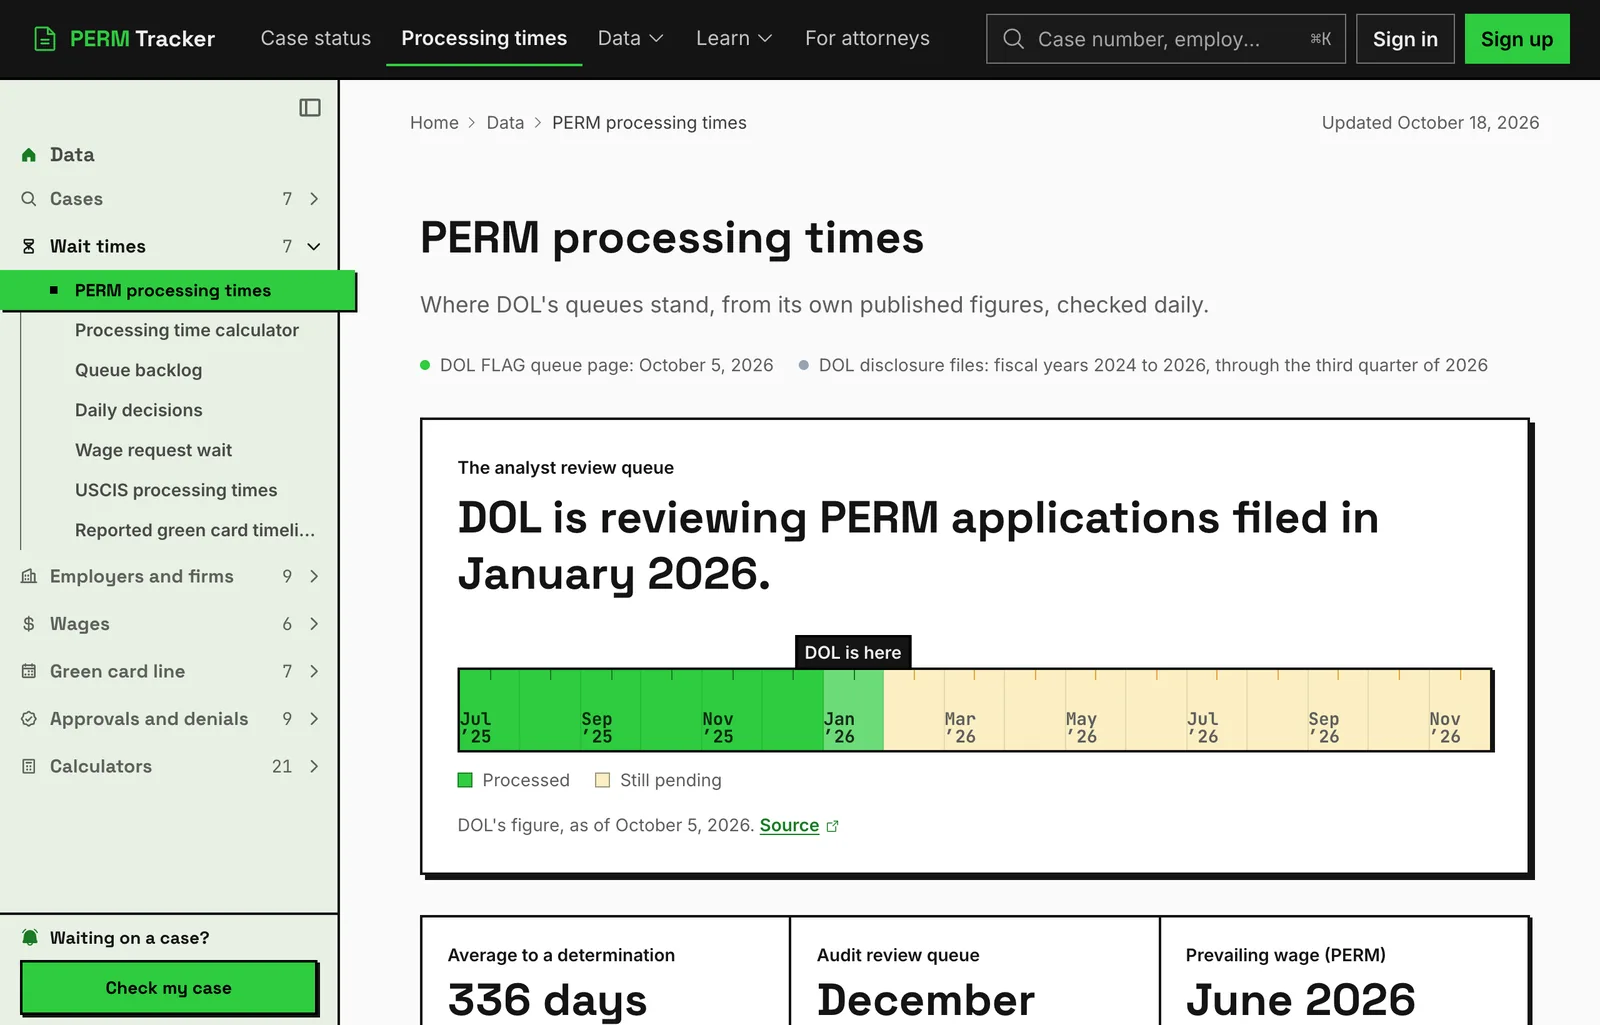
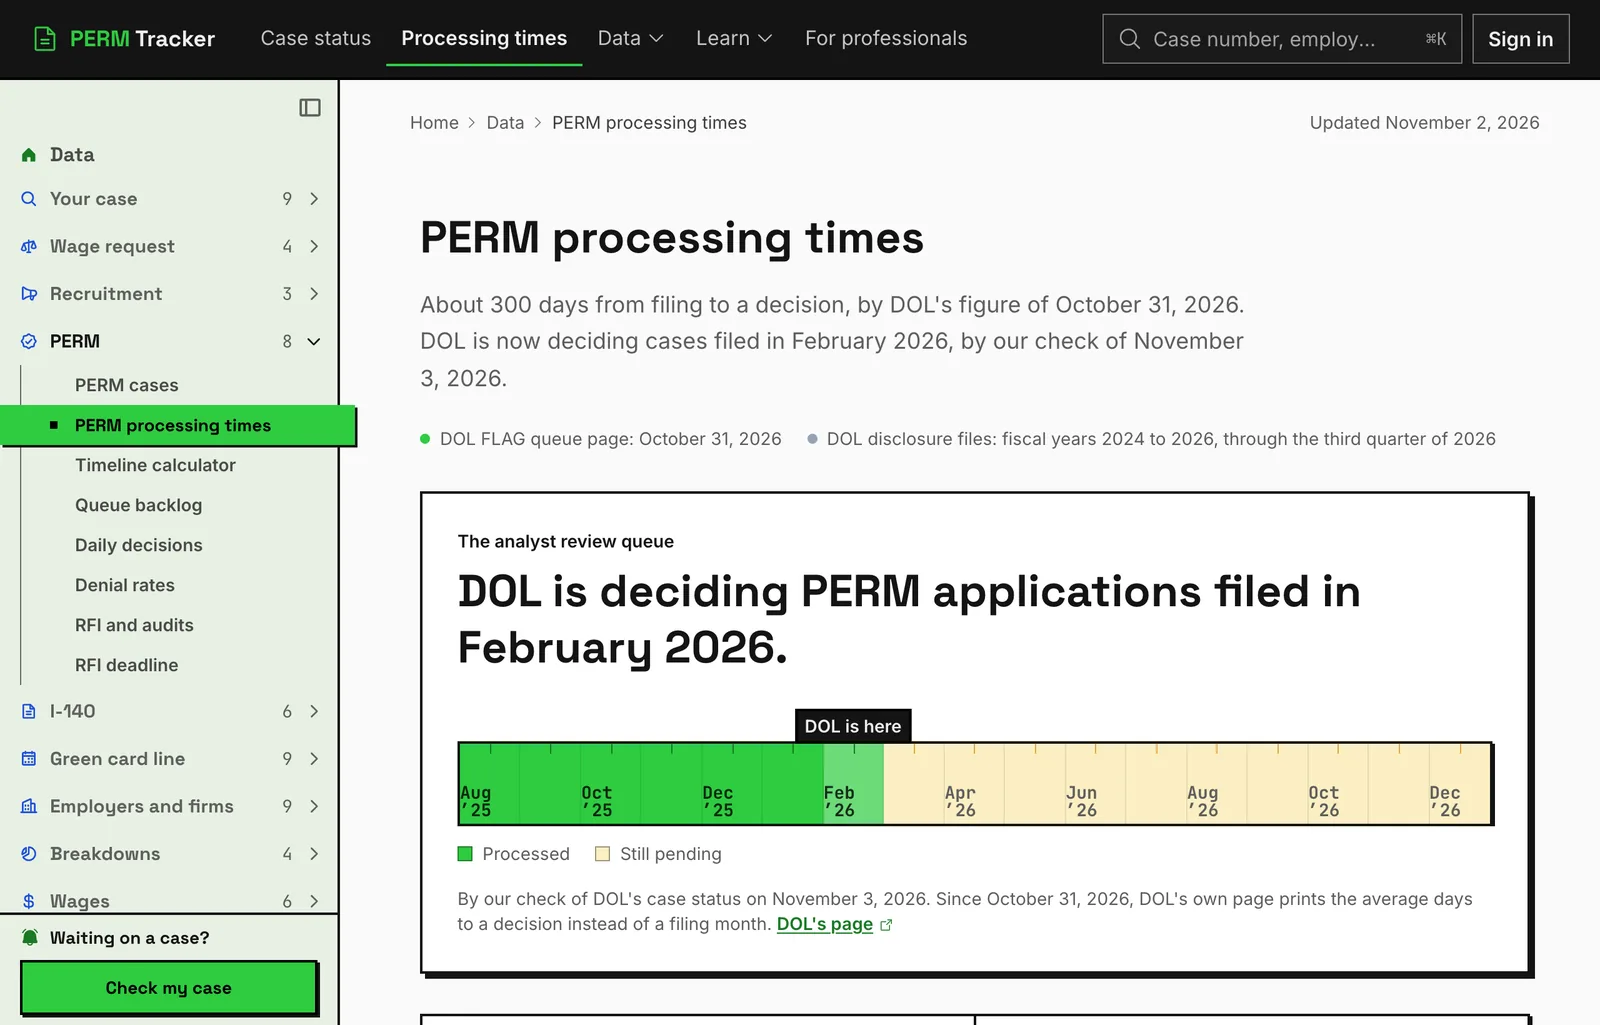
fix(copy): no page says DOL still prints its PERM month
DOL's processing times page stopped printing a PERM filing month on Oct 31
2026: its table is now the average days to a decision over the last 30, 90
and 180 days, with no audit row. The queue page's note, the glossary, the RFI
stage glossary, the processing-times and timeline-calculator FAQs, the badge
and embed descriptions, llms.txt and twelve guides and posts still said DOL
publishes the month its analysts and its audit queue have reached, and one
guide's sentence ended with nothing where the audit month had been.

Each now says what DOL prints today and that the month comes from the site's
daily check of DOL's case statuses. The queue guide shows DOL's page before
and after (a new capture of the Oct 31 table), the processing-times post's
page shot is retaken, and the corrections log has an entry.

dol-prints-no-perm-month.test.ts fails any page, guide, post or shared string
that says DOL still prints the month, leaving wage-request sentences (that
table still prints months) and dated history alone; probed red with two old
sentences put back.

Claude-Session: https://claude.ai/code/session_01XYgdcpR3a27fwYMdTXZtsH

diff --git a/v2/src/app/__tests__/dol-prints-no-perm-month.test.ts b/v2/src/app/__tests__/dol-prints-no-perm-month.test.ts
@@ -1,0 +1,95 @@
+import { readdirSync, readFileSync, statSync } from "node:fs";
+import { join } from "node:path";
+import { describe, expect, it } from "vitest";
+
+/**
+ * DOL's processing times page stopped printing a PERM filing month on Oct 31 2026: its PERM table is now the
+ * average days to a decision over the last 30, 90 and 180 days, with no audit row. Fifteen places kept saying
+ * DOL publishes the month its analysts (or its audit queue) have reached, and one guide's sentence ended with
+ * nothing where the audit month had been. The month DOL is working comes from this site's daily check now
+ * (convex/lib/permLine.ts).
+ *
+ * The wage-request table still prints its months, so a sentence about wage requests is left alone. A sentence
+ * that says when DOL stopped ("until October 31", "no longer", "stopped") is history and passes.
+ */
+const CLAIMS = [
+  /\bDOL publishes (?:which|the) (?:filing )?month\b/i,
+  /\bDOL publishes (?:its|where)\b[^.]{0,40}\b(?:position|queue stands|month)\b/i,
+  /\bpublished (?:frontier|position)\b/i,
+  // the audit QUEUE's place, never the audit rate (which DOL has never published, and pages say so)
+  /\baudit (?:review )?(?:queue|position|backlog)\b[^.]{0,80}\b(?:DOL publishes|published|DOL's table names)\b/i,
+  /\bDOL publishes (?:a|an|its)\b[^.]{0,30}\baudit review\b/i,
+  /\bmonth DOL says its analyst\b/i,
+  // "a separate queue that DOL publishes its own date for", "their own queue, which DOL publishes separately"
+  /\bqueue\b[^.]{0,40}\b(?:which|that) DOL publishes\b/i,
+  /\bmonth DOL (?:says|publishes)\b/i,
+];
+
+// A wage request's month is still printed; a dated sentence is history.
+const ABOUT_WAGES = /\b(?:wage|prevailing|PWD|9141|NPWC|the center)\b/i;
+const HISTORY = /\b(?:until October 31|since October 31|October 31, 2026|no longer|stopped|used to|printed|was working)\b/i;
+
+// Rendered only while DOL's own stored reading carries a month (`from !== "check"`), so true whenever they show.
+const WHILE_DOL_PRINTS = [
+  "month DOL publishes as its analyst-review", // perm-queue/page.tsx, behind `agrees`
+  "DOL publishes its own analyst-review position as", // CaseWall, behind `publishedFront`
+];
+
+// Wage-request pages, where "the month it's working" is the wage table's, which DOL still prints.
+const WAGE_PAGES = new Set(["content/guides/track-a-prevailing-wage-request.mdx"]);
+
+function walk(dir: string, out: string[] = []): string[] {
+  for (const e of readdirSync(dir)) {
+    const p = join(dir, e);
+    if (e === "node_modules" || e === "__tests__" || e === "changelog") continue;
+    if (statSync(p).isDirectory()) walk(p, out);
+    else if (/\.(mdx|tsx|ts)$/.test(e) && !/\.(test|stories)\.tsx?$/.test(e)) out.push(p);
+  }
+  return out;
+}
+
+/** Comments say what code does with DOL's stored month; only what a reader sees is judged. */
+function readerText(path: string, src: string): string {
+  if (path.endsWith(".mdx")) return src.replace(/\{\/\*[\s\S]*?\*\/\}/g, "");
+  return src.replace(/\/\*[\s\S]*?\*\//g, "").replace(/(^|[^:"'`])\/\/.*$/gm, "$1");
+}
+
+export function staleMonthClaims(text: string): string[] {
+  const sentences = text.replace(/&rsquo;|’/g, "'").replace(/&apos;/g, "'").split(/(?<=[.!?])\s+|\n\s*\n/);
+  return sentences.filter(
+    (s) =>
+      CLAIMS.some((re) => re.test(s)) &&
+      !ABOUT_WAGES.test(s) &&
+      !HISTORY.test(s) &&
+      !WHILE_DOL_PRINTS.some((p) => s.includes(p)),
+  );
+}
+
+describe("no page says DOL still prints its PERM month", () => {
+  it("finds the claim when it's there (control)", () => {
+    expect(staleMonthClaims("DOL publishes which month it's working and nothing about the size of what's behind it.")).toHaveLength(1);
+    expect(staleMonthClaims("Audited cases sit in a separate queue that DOL publishes its own date for.")).toHaveLength(1);
+    expect(staleMonthClaims("Audited cases wait in their own queue, which DOL publishes separately.")).toHaveLength(1);
+    expect(staleMonthClaims("The estimate is anchored to DOL's published position.")).toHaveLength(1);
+    expect(staleMonthClaims("DOL publishes an Audit Review queue position alongside its analyst review position.")).toHaveLength(1);
+    expect(staleMonthClaims("It opens with the filing month DOL says its analyst review is working.")).toHaveLength(1);
+  });
+
+  it("passes the audit RATE, which DOL has never published", () => {
+    expect(staleMonthClaims("An audit rate is not published anywhere we can source.")).toHaveLength(0);
+    expect(staleMonthClaims("DOL publishes no PERM audit rate.")).toHaveLength(0);
+  });
+
+  it("passes a wage-request sentence and a dated one", () => {
+    expect(staleMonthClaims("DOL publishes the filing month it is currently working for wage requests.")).toHaveLength(0);
+    expect(staleMonthClaims("Until October 31, 2026, DOL published the filing month its analysts had reached.")).toHaveLength(0);
+    expect(staleMonthClaims("DOL stopped printing which filing month its analysts have reached.")).toHaveLength(0);
+  });
+
+  it("holds for every page, guide, post and shared string", () => {
+    const files = [...walk("src"), ...walk("content")].filter((f) => !WAGE_PAGES.has(f));
+    expect(files.length).toBeGreaterThan(400);
+    const found = files.flatMap((f) => staleMonthClaims(readerText(f, readFileSync(f, "utf8"))).map((s) => `${f}: ${s.trim().slice(0, 160)}`));
+    expect(found).toEqual([]);
+  });
+});

diff --git a/v2/src/app/(site)/(public)/tools/perm-timeline-calculator/page.tsx b/v2/src/app/(site)/(public)/tools/perm-timeline-calculator/page.tsx
@@ -75,7 +75,7 @@ const FAQS = [
   },
   {
     q: "My filing month has already passed and I have no decision. What does that mean?",
-    a: "It usually means the case is in audit, in supervised recruitment, or waiting on a response to a request for information. Those run on their own queues, which DOL publishes separately from analyst review. You do not have to guess which one: put the case number into the case status page and DOL's own status for it says which. If we do not already hold the number, we ask DOL for it right then.",
+    a: "It usually means the case is in audit, in supervised recruitment, or waiting on a response to a request for information. Those run on their own queues, apart from analyst review. You don't have to guess which one: put the case number into the case status page and DOL's own status for it says which. If we don't already hold the number, we ask DOL for it right then.",
   },
 ];
 
@@ -201,7 +201,7 @@ export default async function PermTimelineCalculatorPage() {
       <ToolPageFooter
         currentHref={"/tools/perm-timeline-calculator"}
         reading={[
-          { href: "/perm-processing-times", label: "DOL processing times", note: "Every queue DOL publishes, refreshed weekly, with the figures this calculator reads." },
+          { href: "/perm-processing-times", label: "DOL processing times", note: "DOL's own figures, read hourly on weekdays, with the ones this calculator reads." },
           { href: "/blog/perm-processing-times-2026", label: "What drives a PERM timeline", note: "Audits, supervised recruitment and the things that take a case out of order." },
         ]}
       />

diff --git a/v2/src/app/(site)/(public)/perm-processing-times/page.tsx b/v2/src/app/(site)/(public)/perm-processing-times/page.tsx
@@ -130,7 +130,7 @@ const FAQ = [
   {
     question: "Can PERM be processed faster than the published average?",
     answer:
-      "There’s no premium processing for PERM. An individual case can take longer if DOL issues a request for information (RFI) or selects it for audit. Audited cases sit in a separate queue that DOL publishes its own date for.",
+      "There’s no premium processing for PERM. An individual case can take longer if DOL issues a request for information (RFI) or selects it for audit. Audited cases sit in a separate, slower queue, and DOL hasn’t printed where it stands since October 31, 2026.",
   },
   {
     question: "Where do these numbers come from?",
@@ -540,7 +540,7 @@ export default async function PermProcessingTimesPage() {
             <Chapter
               id="pace"
               title="How fast it advances"
-              dek="DOL publishes where the queue stands and overwrites it, so its own pages can never say how fast it is moving."
+              dek="DOL printed where the queue stood and overwrote it each time, so its own pages never said how fast it moved. It stopped printing a month on October 31, 2026."
             >
               {/* Method, not correction: it says how the series was built
                   rather than changing how the rate reads, so it collapses.

diff --git a/v2/src/lib/embeds.ts b/v2/src/lib/embeds.ts
@@ -51,7 +51,7 @@ export const EMBEDS: readonly EmbedDef[] = [
   { slug: "salary-explorer", title: "PERM salaries", blurb: "Offered wages on certified PERM cases, by occupation, state and year.", href: "/tools/salary-explorer", height: 900, group: "calculator" },
   { slug: "compare-offer", title: "Compare my offer", blurb: "A salary offer against H-1B LCA wages for the same job and state.", href: "/tools/compare-my-offer", height: 760, group: "calculator" },
   { slug: "i140-trends", title: "I-140 trends", blurb: "USCIS I-140 receipts, approvals and pending by quarter.", href: "/tools/i140-trends", height: 760, group: "chart" },
-  { slug: "perm-queue", title: "The PERM queue by filing month", blurb: "Every filing month's undecided cases, and the month DOL says it is working.", href: "/perm-queue", height: 900, group: "chart" },
+  { slug: "perm-queue", title: "The PERM queue by filing month", blurb: "Every filing month's undecided cases, and the month DOL is working by our daily check.", href: "/perm-queue", height: 900, group: "chart" },
   { slug: "visa-bulletin", title: "Visa bulletin cutoffs", blurb: "Final action and filing dates by category and country, with the month's movement.", href: "/visa-bulletin", height: 820, group: "chart" },
 ];
 

diff --git a/v2/src/components/content/DolNow.tsx b/v2/src/components/content/DolNow.tsx
@@ -29,6 +29,8 @@ import { longDate, monthDay } from "@convex/lib/months";
  */
 /** A month DOL's table couldn't give today: where it is instead. */
 const NOT_READ = "on the processing times page";
+// DOL's page has printed no audit row since Oct 31 2026; a sentence that names the month still reads whole.
+const AUDIT_NOT_PRINTED = "no month (DOL stopped printing one on October 31, 2026)";
 
 export async function DolNow({
   show = "queue",
@@ -41,7 +43,7 @@ export async function DolNow({
   const permLine = show === "queue" || show === "month" ? await getPermLine().catch(() => null) : null;
   if (show === "queue") return <span>{queueSentence(dolNow(t, permLine))}</span>;
   if (show === "month") return <span>{dolNow(t, permLine).frontier ?? NOT_READ}</span>;
-  if (show === "auditMonth") return <span>{dolNow(t).auditFrontier ?? NOT_READ}</span>;
+  if (show === "auditMonth") return <span>{dolNow(t).auditFrontier ?? AUDIT_NOT_PRINTED}</span>;
   const pwd = dolPwdNow(t);
   if (show === "pwdOtherMonth") return <span>{pwd.otherFrontier ?? NOT_READ}</span>;
   const line = await getPwdLine();

diff --git a/v2/src/lib/badge.ts b/v2/src/lib/badge.ts
@@ -208,10 +208,10 @@ export const BADGE_DEFS: readonly BadgeDef[] = [
     },
   },
   queueMonth("PERM audits", "perm-audits", "/perm-rfi-audit",
-    "The filing month DOL is working in audit review, for cases audited rather than decided straight through.",
+    "The filing month DOL is working in audit review, for audited cases. DOL stopped printing it on October 31, 2026, so this badge shows no figure until DOL prints one again.",
     (d) => d.permQueueMonths.audit, "PERM audit review"),
   queueMonth("PERM recon", "perm-recon", "/perm-rfi-audit",
-    "The month DOL is working for reconsideration requests, filed after a denial.",
+    "The month DOL is working for reconsideration requests, filed after a denial. DOL stopped printing it on October 31, 2026, so this badge shows no figure until DOL prints one again.",
     (d) => d.permQueueMonths.recon, "PERM reconsideration requests"),
   {
     id: "perm-days", group: "DOL queues", label: "PERM decision", href: "/perm-processing-times",

diff --git a/v2/src/app/(site)/(public)/perm-queue/page.tsx b/v2/src/app/(site)/(public)/perm-queue/page.tsx
@@ -211,9 +211,11 @@ export default async function PermQueuePage() {
           <div className="mt-2 grid grid-cols-1 gap-3 lg:grid-cols-2 lg:gap-6 [&>*]:min-w-0">
             <NoteBanner>
               <p>
-                DOL publishes which month it&rsquo;s working and nothing about the
-                size of what&rsquo;s behind it. Its disclosure files carry no pending
-                rows, so the backlog cannot be derived from them.
+                DOL has never published how many cases wait in its line, and since
+                October 31, 2026 it doesn&rsquo;t print which month it&rsquo;s working
+                either. Its disclosure files carry no pending rows, so the backlog
+                can&rsquo;t be derived from them. PERM Tracker counts it from DOL&rsquo;s
+                own case statuses, case by case.
               </p>
             </NoteBanner>{" "}
             <SourceNote />

diff --git a/v2/src/components/rfi/StageGlossary.tsx b/v2/src/components/rfi/StageGlossary.tsx
@@ -210,7 +210,7 @@ export const ENTRIES: Entry[] = [
     what:
       "The ordinary queue. The case is in line for a human analyst and nothing has been asked of the employer.",
     unsourced:
-      "A workflow status rather than a regulatory term. This is where the overwhelming majority of pending cases sit, and DOL publishes which filing month its analysts have reached. There is a second status, IN PROCESS, holding a few dozen cases, and DOL documents no difference between the two.",
+      "A workflow status rather than a regulatory term. This is where the overwhelming majority of pending cases sit, worked in filing order. DOL stopped printing which filing month its analysts have reached on October 31, 2026, so this site finds it from DOL's own case statuses. There's a second status, IN PROCESS, holding a few dozen cases, and DOL documents no difference between the two.",
   },
 ];
 

diff --git a/v2/src/lib/glossary.ts b/v2/src/lib/glossary.ts
@@ -57,7 +57,7 @@ export const GLOSSARY: GlossaryTerm[] = [
     term: "Analyst review",
     slug: "analyst-review",
     definition:
-      "DOL's status for a PERM in the ordinary queue: in line for a human analyst, with nothing asked of the employer. Around 94% of pending cases sit here, worked in filing order, and DOL publishes which filing month its analysts have reached.",
+      "DOL's status for a PERM in the ordinary queue: in line for a human analyst, with nothing asked of the employer. Most pending cases sit here, worked in filing order. Since October 31, 2026 DOL no longer prints which filing month its analysts have reached; PERM Tracker finds it from DOL's case statuses each day.",
     see: [{ label: "The queue by month", href: "/perm-queue" }, { label: "Every status, explained", href: "/perm-case-statuses#analyst-review" }],
   },
   {

diff --git a/v2/src/components/data/PageBasics.tsx b/v2/src/components/data/PageBasics.tsx
@@ -173,11 +173,13 @@ export const BASICS: Record<string, BasicsEntry[]> = {
         <>
           A case DOL has received and not yet decided, counted from the
           per-case status feed PERM Tracker reads from DOL at least twice a day. The
-          front of the queue - the filing month DOL is working now - is on the{" "}
+          front of the queue, the filing month DOL is working now, is found the
+          same way: DOL stopped printing that month on October 31, 2026. DOL&apos;s
+          own figures, the average days to a decision, are on the{" "}
           <Link href="/perm-processing-times" className={link}>
             processing times page
           </Link>
-          , from DOL&apos;s own publication.
+          .
         </>
       ),
     },

diff --git a/v2/src/app/llms.txt/route.ts b/v2/src/app/llms.txt/route.ts
@@ -97,7 +97,7 @@ const DATA_PAGES: { path: string; label: string; blurb: string }[] = [
     path: "/perm-processing-times",
     label: "PERM processing times",
     blurb:
-      "Which filing month DOL is currently deciding, the average days to a determination, and how the queue frontier has moved. Read live from DOL's FLAG system.",
+      "Which filing month DOL is currently deciding, from PERM Tracker's daily check of DOL's case-status service, DOL's own average days to a decision, and how the queue frontier has moved.",
   },
   {
     path: "/perm-denial-risk",

diff --git a/v2/src/components/tools/CaseEstimate.tsx b/v2/src/components/tools/CaseEstimate.tsx
@@ -116,7 +116,7 @@ export function CaseEstimatePanel({
               {est.nextStep.to.toLowerCase()}
             </b>
             {est.nextStep.to.toUpperCase() === "ANALYST REVIEW"
-              ? " - back into the ordinary queue, where DOL's published position applies again."
+              ? ", back into the ordinary queue, where the line's position applies again."
               : "."}{" "}
             <span className="text-muted-foreground">
               How long that takes is not something we can measure yet.
